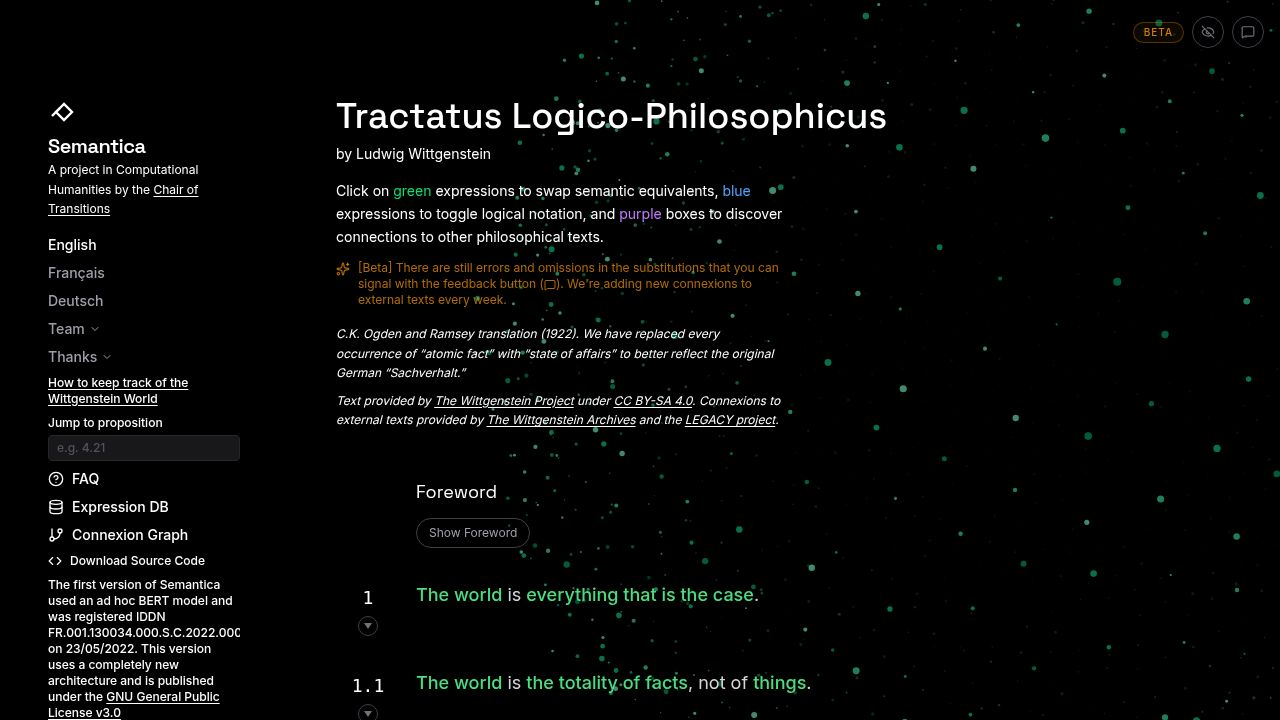
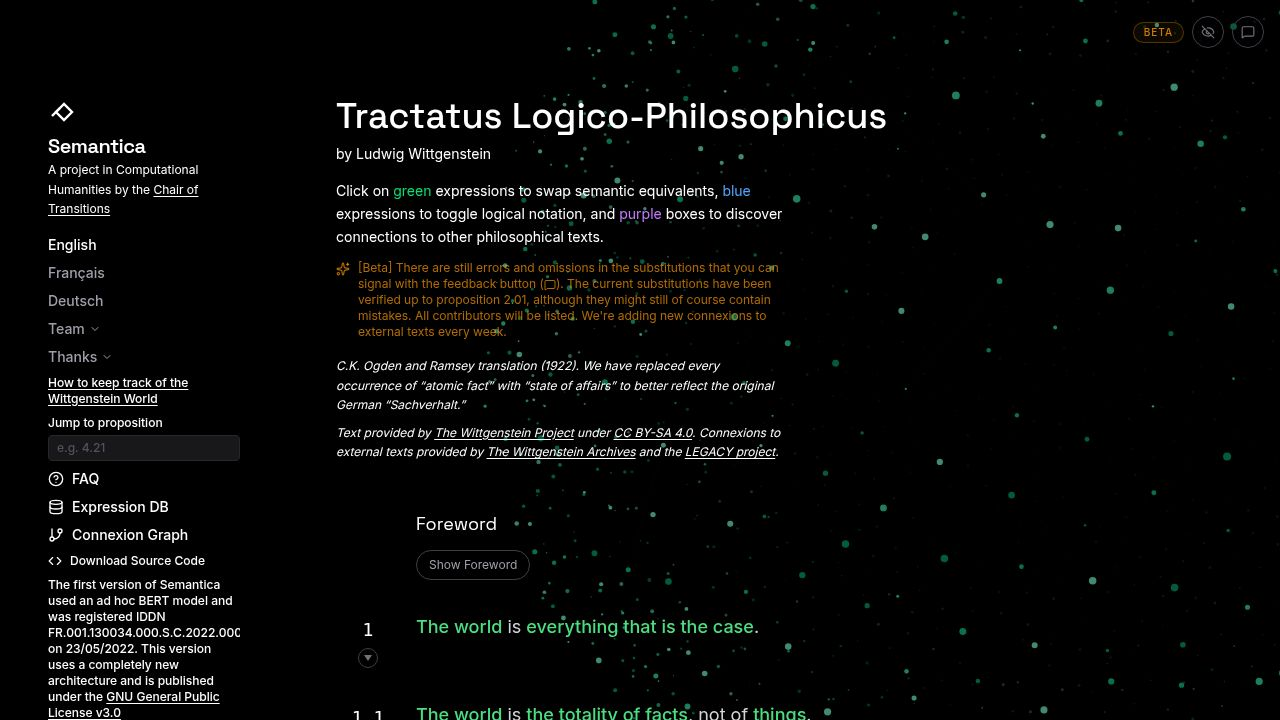
Add ability to update verified proposition number in admin mode
Introduce a new `app_settings` table and corresponding API endpoints to manage configurable settings. The homepage now dynamically displays the "verified up to" proposition number fetched from this setting, and the Editor page includes a new UI for administrators to update this value. Additionally, these settings are now included in the project export functionality.

Replit-Commit-Author: Agent
Replit-Commit-Session-Id: 3d3c5ee8-30ca-449f-a36a-2a26b9467d3a
Replit-Commit-Checkpoint-Type: full_checkpoint
Replit-Commit-Event-Id: 86a56d28-35cf-495b-b426-5daa5934a63f
Replit-Commit-Screenshot-Url: https://storage.googleapis.com/screenshot-production-us-central1/2c497065-9d4a-4f02-8f2e-021a778ebca1/3d3c5ee8-30ca-449f-a36a-2a26b9467d3a/69FJrcU
Replit-Helium-Checkpoint-Created: true

diff --git a/client/src/pages/Home.tsx b/client/src/pages/Home.tsx
@@ -1,4 +1,4 @@
-import React, { useState, useMemo, useCallback } from 'react';
+import React, { useState, useMemo, useCallback, useEffect } from 'react';
 import { motion, AnimatePresence } from 'framer-motion';
 import StarSphere from '@/components/StarSphere';
 import { SemanticWord } from '@/components/SemanticWord';
@@ -107,7 +107,15 @@ export default function Home() {
   const [openAnnotation, setOpenAnnotation] = useState<string | null>(null);
   const [showPreface, setShowPreface] = useState(false);
   const [showFaq, setShowFaq] = useState(false);
+  const [verifiedUpTo, setVerifiedUpTo] = useState('2.01');
   const { synonymGroups } = useSemantic();
+
+  useEffect(() => {
+    fetch('/api/settings/verified_up_to')
+      .then(r => r.json())
+      .then(data => { if (data.value) setVerifiedUpTo(data.value); })
+      .catch(() => {});
+  }, []);
 
   const preface: PrefaceData = language === 'en' ? prefaceEN : language === 'de' ? prefaceDE : prefaceFR;
   const rawData = language === 'en' ? tractatusEnglishRaw : language === 'de' ? tractatusGermanRaw : tractatusFrenchRaw;
@@ -669,7 +677,7 @@ export default function Home() {
             )}
             <div className="mt-3 flex items-start gap-2 text-amber-500/70 text-xs max-w-md">
               <Sparkles className="w-3.5 h-3.5 mt-0.5 shrink-0" />
-              <p>{language === 'fr' ? <>[Beta] Il y a encore des erreurs et des oublis dans les substitutions que vous pouvez signaler avec le bouton de retour (<MessageSquare className="w-3 h-3 inline" />). Les substitutions actuelles ont été vérifiées jusqu'à la proposition 2.01, bien qu'elles puissent bien sûr encore contenir des erreurs. Tous les contributeurs seront mentionnés. Nous ajoutons de nouvelles connexions à des textes externes chaque semaine.</> : language === 'de' ? <>[Beta] Es gibt noch Fehler und Auslassungen in den Substitutionen, die Sie mit dem Feedback-Button (<MessageSquare className="w-3 h-3 inline" />) melden können. Die aktuellen Substitutionen wurden bis Satz 2.01 überprüft, obwohl sie natürlich noch Fehler enthalten können. Alle Mitwirkenden werden aufgelistet. Wir fügen jede Woche neue Verbindungen zu externen Texten hinzu.</> : <>[Beta] There are still errors and omissions in the substitutions that you can signal with the feedback button (<MessageSquare className="w-3 h-3 inline" />). The current substitutions have been verified up to proposition 2.01, although they might still of course contain mistakes. All contributors will be listed. We're adding new connexions to external texts every week.</>}</p>
+              <p>{language === 'fr' ? <>[Beta] Il y a encore des erreurs et des oublis dans les substitutions que vous pouvez signaler avec le bouton de retour (<MessageSquare className="w-3 h-3 inline" />). Les substitutions actuelles ont été vérifiées jusqu'à la proposition {verifiedUpTo}, bien qu'elles puissent bien sûr encore contenir des erreurs. Tous les contributeurs seront mentionnés. Nous ajoutons de nouvelles connexions à des textes externes chaque semaine.</> : language === 'de' ? <>[Beta] Es gibt noch Fehler und Auslassungen in den Substitutionen, die Sie mit dem Feedback-Button (<MessageSquare className="w-3 h-3 inline" />) melden können. Die aktuellen Substitutionen wurden bis Satz {verifiedUpTo} überprüft, obwohl sie natürlich noch Fehler enthalten können. Alle Mitwirkenden werden aufgelistet. Wir fügen jede Woche neue Verbindungen zu externen Texten hinzu.</> : <>[Beta] There are still errors and omissions in the substitutions that you can signal with the feedback button (<MessageSquare className="w-3 h-3 inline" />). The current substitutions have been verified up to proposition {verifiedUpTo}, although they might still of course contain mistakes. All contributors will be listed. We're adding new connexions to external texts every week.</>}</p>
             </div>
             <div className="mt-4 text-white text-xs leading-relaxed max-w-md italic">
               {language === 'fr' ? (

diff --git a/client/src/pages/Editor.tsx b/client/src/pages/Editor.tsx
@@ -18,6 +18,8 @@ export default function Editor() {
   const [showMessages, setShowMessages] = useState(false);
   const [feedbackLoading, setFeedbackLoading] = useState(false);
   const fileInputRef = useRef<HTMLInputElement>(null);
+  const [verifiedUpTo, setVerifiedUpTo] = useState('');
+  const [verifiedSaving, setVerifiedSaving] = useState(false);
 
   const isAuthenticated = !!authToken;
 
@@ -30,6 +32,28 @@ export default function Editor() {
       }).catch(() => setAuthToken(null));
     }
   }, []);
+
+  useEffect(() => {
+    if (isAuthenticated) {
+      fetch('/api/settings/verified_up_to')
+        .then(r => r.json())
+        .then(data => { if (data.value) setVerifiedUpTo(data.value); })
+        .catch(() => {});
+    }
+  }, [isAuthenticated]);
+
+  const saveVerifiedUpTo = async () => {
+    if (!authToken || !verifiedUpTo.trim()) return;
+    setVerifiedSaving(true);
+    try {
+      await fetch('/api/settings/verified_up_to', {
+        method: 'PUT',
+        headers: { 'Content-Type': 'application/json', 'Authorization': `Bearer ${authToken}` },
+        body: JSON.stringify({ value: verifiedUpTo.trim() }),
+      });
+    } catch {}
+    setVerifiedSaving(false);
+  };
 
   const loadFeedback = useCallback(async () => {
     if (!authToken) return;
@@ -245,6 +269,29 @@ export default function Editor() {
           </>
           )}
         </div>
+
+        {isAuthenticated && (
+          <div className="mb-6 flex items-center gap-3">
+            <label className="text-sm text-zinc-400 whitespace-nowrap">Verified up to proposition:</label>
+            <Input
+              value={verifiedUpTo}
+              onChange={(e) => setVerifiedUpTo(e.target.value)}
+              className="w-24 bg-zinc-900/50 border-zinc-700 text-white text-sm"
+              placeholder="e.g. 2.01"
+              data-testid="input-verified-up-to"
+            />
+            <Button
+              variant="outline"
+              size="sm"
+              onClick={saveVerifiedUpTo}
+              disabled={verifiedSaving}
+              className="border-zinc-700 text-zinc-400 hover:text-white bg-zinc-900/50"
+              data-testid="btn-save-verified"
+            >
+              {verifiedSaving ? 'Saving...' : 'Save'}
+            </Button>
+          </div>
+        )}
 
         {isAuthenticated && (
           <div className="mb-8">

diff --git a/server/storage.ts b/server/storage.ts
@@ -1,4 +1,4 @@
-import { type SynonymGroup, type InsertSynonymGroup, synonymGroups, type Feedback, type InsertFeedback, feedback } from "@shared/schema";
+import { type SynonymGroup, type InsertSynonymGroup, synonymGroups, type Feedback, type InsertFeedback, feedback, appSettings, type AppSetting } from "@shared/schema";
 import { db } from "./db";
 import { eq, desc } from "drizzle-orm";
 
@@ -11,6 +11,8 @@ export interface IStorage {
   replaceAllSynonymGroups(groups: InsertSynonymGroup[]): Promise<SynonymGroup[]>;
   getFeedback(): Promise<Feedback[]>;
   createFeedback(entry: InsertFeedback): Promise<Feedback>;
+  getSetting(key: string): Promise<string | null>;
+  setSetting(key: string, value: string): Promise<void>;
 }
 
 export class DatabaseStorage implements IStorage {
@@ -53,6 +55,18 @@ export class DatabaseStorage implements IStorage {
   async createFeedback(entry: InsertFeedback): Promise<Feedback> {
     const [created] = await db.insert(feedback).values(entry).returning();
     return created;
+  }
+
+  async getSetting(key: string): Promise<string | null> {
+    const [row] = await db.select().from(appSettings).where(eq(appSettings.key, key));
+    return row?.value ?? null;
+  }
+
+  async setSetting(key: string, value: string): Promise<void> {
+    await db.insert(appSettings).values({ key, value }).onConflictDoUpdate({
+      target: appSettings.key,
+      set: { value },
+    });
   }
 }
 

diff --git a/server/routes.ts b/server/routes.ts
@@ -119,6 +119,20 @@ export async function registerRoutes(
     res.json({ authenticated: true });
   });
 
+  app.get("/api/settings/:key", async (req, res) => {
+    const value = await storage.getSetting(req.params.key);
+    res.json({ key: req.params.key, value });
+  });
+
+  app.put("/api/settings/:key", requireAuth, async (req, res) => {
+    const { value } = req.body;
+    if (typeof value !== 'string') {
+      return res.status(400).json({ message: "Value must be a string" });
+    }
+    await storage.setSetting(req.params.key, value);
+    res.json({ key: req.params.key, value });
+  });
+
   app.get("/api/synonym-groups/export", async (_req, res) => {
     const groups = await storage.getSynonymGroups();
     const exportData = groups.map(({ id, ...rest }) => rest);
@@ -170,6 +184,9 @@ export async function registerRoutes(
 
       const feedback = await storage.getFeedback();
       archive.append(JSON.stringify(feedback, null, 2), { name: 'database/feedback.json' });
+
+      const verifiedUpTo = await storage.getSetting('verified_up_to');
+      archive.append(JSON.stringify({ verified_up_to: verifiedUpTo }, null, 2), { name: 'database/settings.json' });
 
       await archive.finalize();
     } catch (err) {

diff --git a/shared/schema.ts b/shared/schema.ts
@@ -16,6 +16,13 @@ export const insertSynonymGroupSchema = createInsertSchema(synonymGroups).omit({
 export type InsertSynonymGroup = z.infer<typeof insertSynonymGroupSchema>;
 export type SynonymGroup = typeof synonymGroups.$inferSelect;
 
+export const appSettings = pgTable("app_settings", {
+  key: text("key").primaryKey(),
+  value: text("value").notNull(),
+});
+
+export type AppSetting = typeof appSettings.$inferSelect;
+
 export const feedback = pgTable("feedback", {
   id: serial("id").primaryKey(),
   propositionId: text("proposition_id").notNull(),
